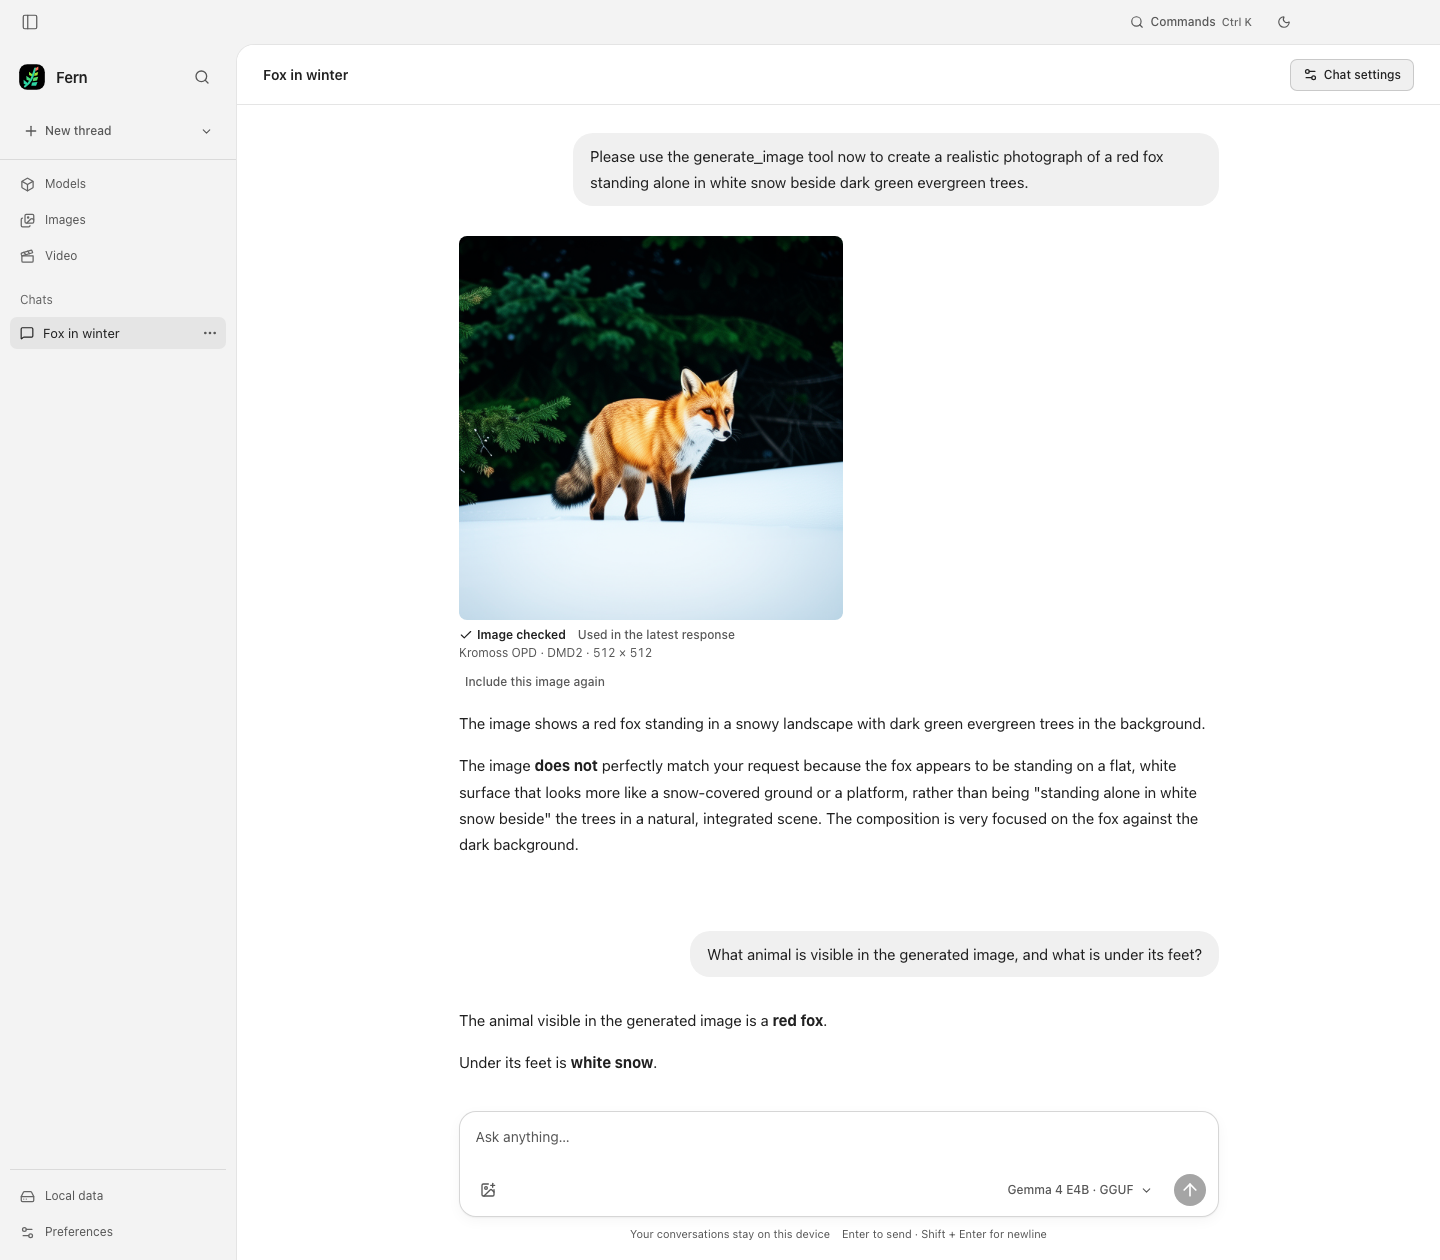
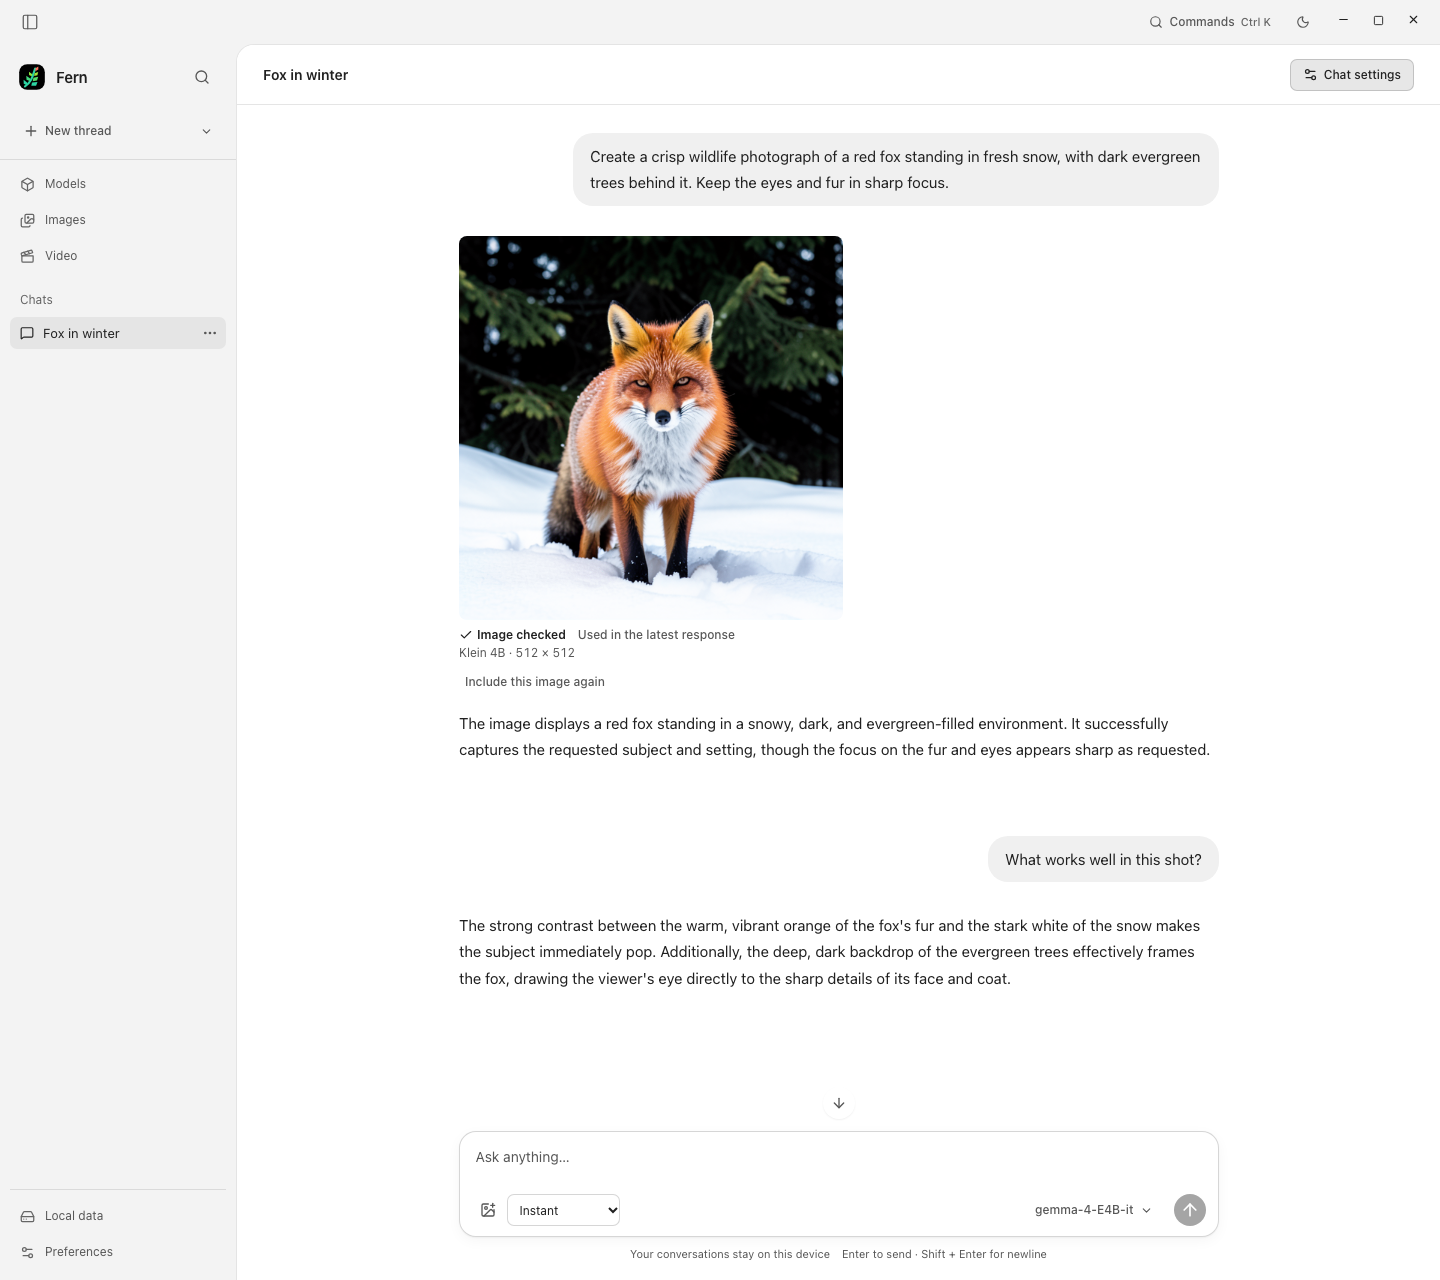
Show a Klein 4B fox conversation in the README

diff --git a/README.md b/README.md
@@ -6,9 +6,9 @@ Talk to a model, attach a photo, or ask Fern to make an image right in the conve
 
 [Download Fern](https://github.com/xgirls-dev/fern/releases/latest) · [Get started](#get-started) · [Platform support](#platform-support) · [Changelog](CHANGELOG.md)
 
-![Fern Chat showing a generated fox in the snow, the Image checked status, and a follow-up answer about the image](assets/fern-chat.png)
+![Fern Chat showing a sharp red fox in the snow, an Image checked label, and Gemma's review of the composition](assets/fern-chat.png)
 
-*Fern Chat replaying a verified Intel Arc B390 session. Kromoss OPD DMD2 generated the image. Gemma 4 E4B inspected it and answered a follow-up.*
+*Klein 4B generated the fox on Intel Arc B390. Gemma 4 E4B inspected the image in Chat and explained how the snow and dark evergreens frame the fox.*
 
 ## Get started
 
@@ -36,7 +36,7 @@ sudo pacman -Syu intel-compute-runtime ocl-icd vulkan-intel vulkan-icd-loader
 
 - **Chat.** Go to **Models → Text**, install **Gemma 4 E4B · GGUF**, then choose **New thread → Chat**. The download includes the language model and its matching vision projector.
 - **Create an image.** Go to **Models → Image** and install a model available for your device. **Klein 4B** is the smaller FLUX.2 option. Choose **New thread → Create image**, select the model, and enter a prompt.
-- **Make an image in Chat.** Install Gemma 4 E4B and a compatible image model such as Klein 4B. On a compatible Intel GPU, keep **Preferences → Compute → Generation device** set to **Available GPU**. In a Gemma chat, choose **Auto** or the installed model under **Chat settings → Image generation**. Try “Create an illustration of a fox in falling snow,” then “What is under the fox’s feet?”
+- **Make an image in Chat.** Install Gemma 4 E4B and a compatible image model such as Klein 4B. On a compatible Intel GPU, keep **Preferences → Compute → Generation device** set to **Available GPU**. In a Gemma chat, choose **Auto** or the installed model under **Chat settings → Image generation**. Try “Create a crisp wildlife photograph of a red fox in fresh snow,” then “What works well in this shot?”
 
 First loads can take longer while Fern downloads an engine or compiles a model for your device. **Models** shows setup and download progress.
 
